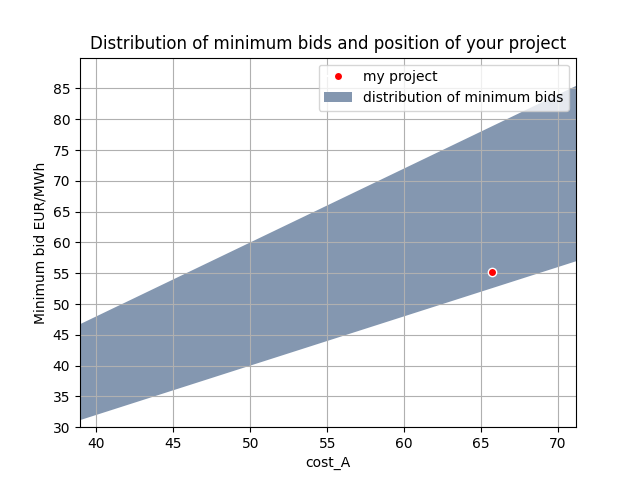
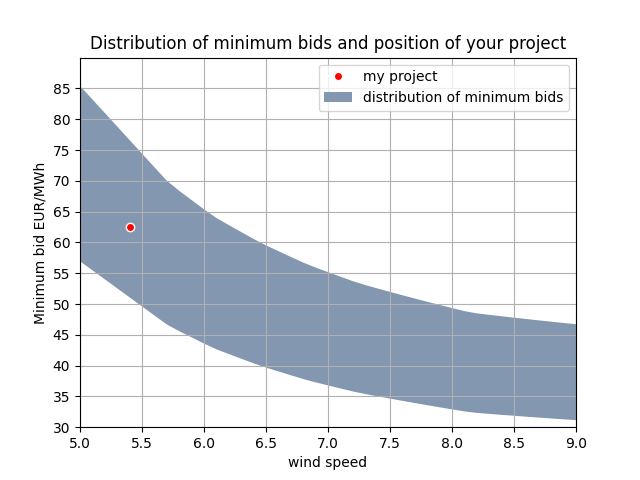
probablity distribution

diff --git a/probabilities.py b/probabilities.py
@@ -1,0 +1,85 @@
+import random as random
+import pandas as pd
+
+from distributions import DistributionGenerator
+
+
+def generate_probabiltiy_distribution_to_csv(iterations=10,
+                                             ws_min=5, ws_max=9,
+                                             oc_min=0.8, oc_max=1.2,
+                                             base_lcoe=50,
+                                             random_seed=16180339,
+                                             name="probability_dist",
+                                              ):
+    random.seed(random_seed)
+
+    id_scenario = str(name) + "_seed:" + str(random_seed) + \
+                  "_ws_min_" + str(ws_min) +"_ws_max_" + str(ws_max) \
+                  +"_base_lcoe_"+ str(base_lcoe) + \
+                  "_oc_min_" + str(oc_min) + "_oc_max_"+ str(oc_max)
+
+    InputDistribution = DistributionGenerator(min_ws=ws_min, max_ws=ws_max, base_lcoe=base_lcoe,
+                                              oc_min=oc_min, oc_max=oc_max)
+
+    parameters_dic = {"iteration": [],
+                      "ws": [],
+                      "other_costs": [],
+                      "cost_A": [],
+                      "cost_B": [],
+                      "production": [],
+                      "break_even_no_rym": [],
+                      "correction_factor": [],
+                      "break_even_rym": [],
+                      "id_scenario": [],
+                      }
+
+    current_round = 0
+
+    """generation of parameters"""
+    for ii in range(ws_min * 10, ws_max * 10 + 1):
+        ws = ii / 10
+        for i in range(int(oc_min * 100), int(oc_max * 100) + 1):
+            current_round += 1
+
+            other_costs = i / 100
+
+            parameters_dic["iteration"].append(current_round)
+            parameters_dic["ws"].append(ws)
+            parameters_dic["other_costs"].append(other_costs)
+
+            """ Loaded from original distributions"""
+            ws_index = InputDistribution.distribution["ws"].index(ws)
+            production = InputDistribution.distribution["production"][ws_index]
+            correction_factor = InputDistribution.distribution["correction_factor"][ws_index]
+            production_lcoe = InputDistribution.distribution["lcoe"][ws_index]
+            lcoe = production_lcoe * other_costs
+
+            parameters_dic["cost_A"].append(production_lcoe)
+            parameters_dic["cost_B"].append(lcoe - production_lcoe)
+            parameters_dic["production"].append(production)
+            parameters_dic["break_even_no_rym"].append(lcoe)
+            parameters_dic["correction_factor"].append(correction_factor)
+            parameters_dic["break_even_rym"].append(lcoe/correction_factor)
+
+            parameters_dic["id_scenario"].append(id_scenario)
+
+    writer = pd.ExcelWriter("{0}.xlsx".format(name), engine="xlsxwriter")
+
+    df_out = pd.DataFrame.from_dict(parameters_dic)
+
+
+    df_out.to_excel(writer, sheet_name="all_data")
+
+    df_no_rym = df_out["break_even_no_rym"].sort_values()
+    df_rym = df_out["break_even_rym"].sort_values()
+
+    df_out.to_excel(writer, sheet_name="all_data")
+    df_no_rym.to_excel(writer, sheet_name="no_rym")
+    df_rym.to_excel(writer, sheet_name="rym")
+
+    writer.save()
+
+
+if __name__ == '__main__':
+    generate_probabiltiy_distribution_to_csv(random_seed=16180339, name="probability_dist", iterations=10000)
+

diff --git a/players.py b/players.py
@@ -148,18 +148,18 @@ class Player:
         print("rym", self.rym)
         if self.rym == 1:
             plt.figure(self.my_name)
-            plt.stackplot(self.distribution_df["cost_A"], [self.distribution_df["min_lcoe_rym"],
+            plt.stackplot(self.distribution_df["ws"], [self.distribution_df["min_lcoe_rym"],
                                                        self.distribution_df["max_lcoe_rym"] - self.distribution_df[
                                                            "min_lcoe_rym"]],
                           colors=color_map, labels=["", "distribution of minimum bids"])
 
-            plt.plot(self.parameters["cost_A"], self.parameters["minimum_bid"], marker="o", markerfacecolor="red", label='my project')
+            plt.plot(self.parameters["ws"], self.parameters["minimum_bid"], marker="o", markerfacecolor="red", label='my project')
             plt.grid()
-            plt.xlim(min(self.distribution_df["cost_A"]), max(self.distribution_df["cost_A"]))
+            plt.xlim(min(self.distribution_df["ws"]), max(self.distribution_df["ws"]))
             plt.ylim(35, 70)
             plt.yticks(np.arange(35, 70, 5))
             plt.title("Distribution of minimum bids and position of your project")
-            plt.xlabel("cost_A")
+            plt.xlabel("wind speed")
             plt.ylabel("Minimum bid EUR/MWh")
             plt.legend()
 
@@ -168,18 +168,18 @@ class Player:
 
         else:
             plt.figure(self.my_name)
-            plt.stackplot(self.distribution_df["cost_A"], [self.distribution_df["min_lcoe"],
+            plt.stackplot(self.distribution_df["ws"], [self.distribution_df["min_lcoe"],
                                                        self.distribution_df["max_lcoe"] - self.distribution_df[
                                                            "min_lcoe"]],
                           colors=color_map, labels=["", "distribution of minimum bids"])
 
-            plt.plot(self.parameters["cost_A"], self.parameters["minimum_bid"], marker="o", markerfacecolor="red", label='my project')
+            plt.plot(self.parameters["ws"], self.parameters["minimum_bid"], marker="o", markerfacecolor="red", label='my project')
             plt.grid()
-            plt.xlim(min(self.distribution_df["cost_A"]), max(self.distribution_df["cost_A"]))
+            plt.xlim(min(self.distribution_df["ws"]), max(self.distribution_df["ws"]))
             plt.ylim(30, 90)
             plt.yticks(np.arange(30, 90, 5))
             plt.title("Distribution of minimum bids and position of your project")
-            plt.xlabel("cost_A")
+            plt.xlabel("wind speed")
             plt.ylabel("Minimum bid EUR/MWh")
             plt.legend()
 
